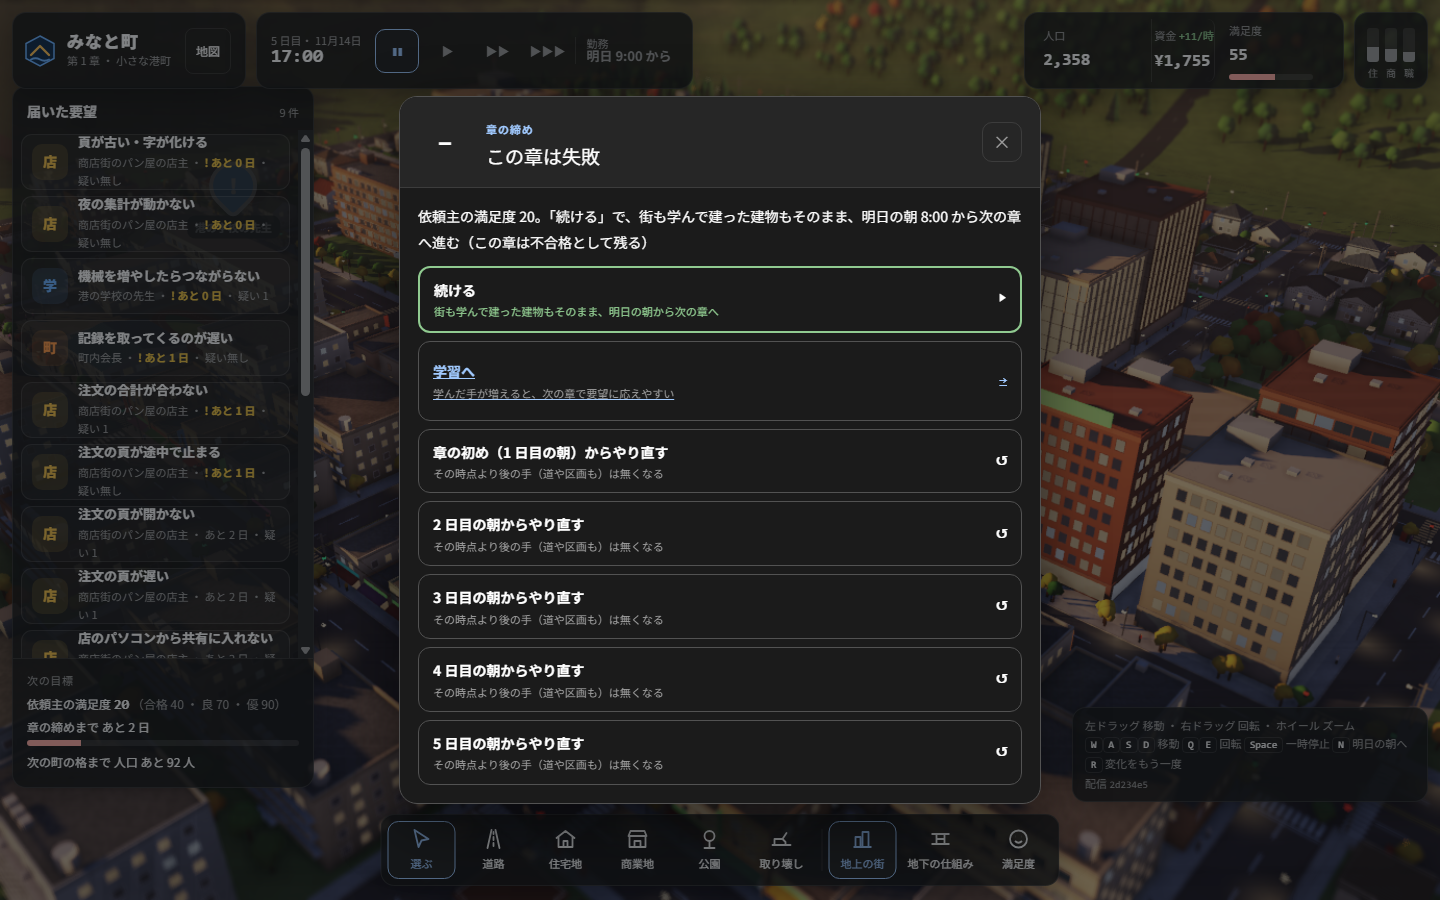
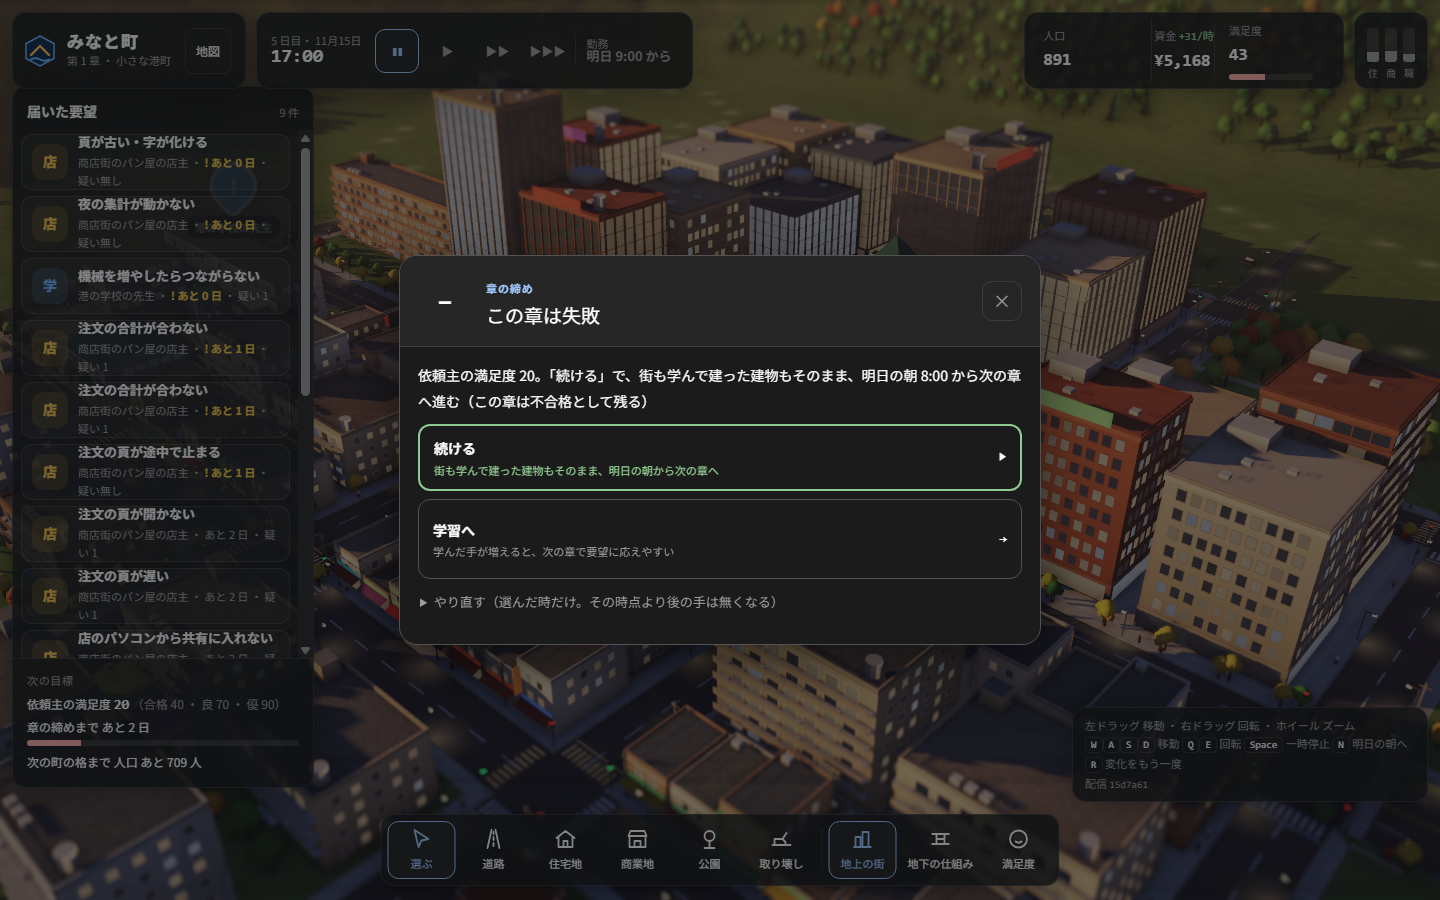
devlearn 8-R 済：記録・撮った画面（公開 URL の 15d7a61）・利用者の指摘 11-26 を済に。失敗の板の台本は地図へ移るのを待つ

diff --git a/devlearn/scripts/look-town-escape.ts b/devlearn/scripts/look-town-escape.ts
@@ -102,8 +102,12 @@ async function main() {
 		// 学習へ：地図へ行ける
 		await openWith(tab, FAILED);
 		await clickText(tab, '.modal .opt', '学習へ');
-		await sleep(1500);
-		const path = await tab.eval<string>('location.pathname');
+		// 地図はレッスンの一覧を読むので、移るまで数秒かかることがある
+		let path = '';
+		for (let i = 0; i < 20 && path !== '/map'; i++) {
+			await sleep(500);
+			path = await tab.eval<string>('location.pathname');
+		}
 		check('学習へ：地図へ移った', path === '/map', path);
 		// 古い保存：「新しい街で始める」が出て、押すと遊び方の板（はじめての街）になる
 		await openWith(tab, OLD);

diff --git a/devlearn/docs/progress/phase-8.md b/devlearn/docs/progress/phase-8.md
@@ -1,23 +1,43 @@
 # 段 8　ゲームの実装（港町）
 
-状態: 8-2 まで**済**（2026-11-12）。**8-R（D-27）を進めている**（2026-11-26 に始めた）
+状態: 8-2 まで**済**（2026-11-12）。**8-R（D-27）も済**（2026-11-27）。次は `plan.md` 10-P の続き（`phase-10.md`）
 
-## 次の実行が読む所（8-R）
+## 次の実行が読む所（8-R は済）
 
-- `decisions.md` D-27（全て）
-- `plan.md` 8-R の節（手順 0〜6 と完成条件）
-- `city-standard.md` G-10b・G-12〜G-15・S-6
-- `game-design.md` 第 15 章 15.2・15.5・15.7・15.8（空き地から作り直す数）
-- `requirements.md` T-8〜T-12・A-19b・B-2〜B-4
-- この記録の「8-R」の節（手順 0 は済。手順 1 から）
-- コード：`src/lib/game/town.ts`（状態と手）・`build.ts`（区画・人口）・`desk.ts`（要望）・`src/lib/city/game.ts`（描画と板）
+- 段 8 は済。次の実行は `docs/progress/phase-10.md` の「次の実行が読む所」から 10-P の続きを進める
+- 街を直す時だけ：`game-design.md` 15.12（空き地からの数）・`city-standard.md` G-12〜G-15・S-6、この記録の「8-R」の節
+- 公開 URL の台本：`scripts/look-town-grow.ts`（空き地から育つ）・`scripts/look-town-escape.ts`（板から抜ける）
 
 ## 8-R　街を空き地から始め、学ぶと育てる（D-27）
 
 | 手順 | 状態 |
 |---|---|
 | 0 閉じ込めを直す | 済（2026-11-26、`2d234e5`） |
-| 1〜6 | まだ |
+| 1 数を作り直す | 済（2026-11-27、`f80a86c`。`game-design.md` 15.12） |
+| 2 状態（空き地・learn の手・当て直し） | 済（`f80a86c`） |
+| 3 学ぶと建つ | 済（`f80a86c`・`f1270b8`・`15d7a61`） |
+| 4 要望は住民から | 済（`f80a86c`） |
+| 5 見積もりを流し直す | 済（`f80a86c`） |
+| 6 公開 URL の台本 | 済（配信 `15d7a61` で 19 項目・24 項目 全て OK） |
+
+### 手順 1〜6：空き地から始め、学ぶと育つ（2026-11-27）
+
+- 作った物
+  - `town.ts`：手 `learn`（そのレッスンの初めての合格だけ効く）、`passed`・`started`。完成図（試作の街）の建物を広場の掲示板から近い順に、最初の合格で 3 棟（住む建物を必ず含む）・以後 2 棟建てる。分野の仕組みの建物も建つ。章は最初の住民が来た次の朝 8:00 から。要望の数は住民で 0〜3 件、中身は建っている依頼主で、合格した分野で直せる物を先に（`requestPick`）。町の格は 空き地 → 集落 → 村 → 小さな港町 → 港町 → にぎわう港町 → 港の市。保存の形 2。`pendingLessons`・`standingRise`
+  - `build.ts`：`standing`。人口・働く場所は建ち終えた物だけ。維持費は建った量に比例（空き地で 0）。完成図の区画は合格 1 本ごとに近い順に 1 つ開く。道は建った物から 60 m 以内の交差点からだけ
+  - `areas.ts`・`gen.ts`：地形の後の動かない物（道・歩道・白線・木・街灯・灯りの輪）に 20 m の升の番号。建った物から 60 m の升だけを 0.9 秒で立ち上げる。東の入口の道だけ始まりから見え、北と西の道は町の端まで育つと見える。車・人・信号・旗も見せた升の上だけ
+  - 街の画面：学習の記録の修了を、開いた時・窓に戻った時に `learn` の手で当てる。足場から 1 時間で建つ。知らせ「『題』を学んで N 棟が建ち始めた」と「見に行く」。建物の札「『題』を学んで建った」。仕組みの建物は足場と砂ぼこりから。建ち終えた家へ荷物を運ぶ人が 3 人歩いて来て「+N 人 引っ越して来た」。章の前は目標に「最初のレッスンに合格する」と地図への道を出し、日報を出さない。はじめにの 3 行（学ぶと建つ・住む人から要望が届く・学んだ手で応える）と「最初のレッスンへ」。始まりの視点は海・岸・東の入口が入るよう引く。1 時間ごとに保存
+  - 直した不具合：学んで仕組みの建物がある保存を開くと、`FIELD_ORDER` を宣言より前に読んで街が止まった（`1863a34`）
+- 確かめ方
+  - 単体：`empty.test.ts`（空き地・30 日で失敗しない・建つ順・最初の 3 棟・2 棟ずつ・章の始まりと要望・当て直し・区画・道・記録の反映・高さ）、`areas.test.ts`、`estimate.test.ts`「空き地から」3 件、`nolearn.test.ts`（最初の 1 本の後、学んだ手を使わずに自由の章まで。種 5 つ）。段 4 の仕組みのテストは `{ full: true }` で前と同じ値。全体 2,879 件が通る
+  - 公開 URL（配信 `15d7a61`）：`look-town-grow.ts` 19 項目 全て OK（初めて開く → はじめに → 空き地で人口 0・要望 0 → 時計が進む → 朝を 2 回送っても失敗も要望も無い → 合格で知らせと learn の記録 → 札「学んで建った」 → 次の朝に人口 6・要望 1 件 → 要望の板 → 様子を聞く → Esc → 開き直しても住民がいる）。`look-town-escape.ts` 24 項目 全て OK（失敗の保存を形 2 にした。地図へ移るのを最大 10 秒待つ）
+  - 合格は、学習の画面が書くのと同じ修了の記録（`devlearn.progress`）を置いて窓に戻すことで起こした（合格そのものの画面は段 10 の台本で確かめている）
+  - 撮った画面（公開 URL）：`shots/phase-8r-intro.png`・`phase-8r-empty.png`（空き地。海・岸・丘・東の入口の道だけ）・`phase-8r-scaffold.png`・`phase-8r-first-home.png`・`phase-8r-request.png`・`phase-8r-failed-panel.png`
+- 完成条件
+  1. A-19b：`look-town-grow.ts` を公開 URL で 全て OK
+  2. G-12〜G-15・S-6：はじめにの 3 行（G-12）、空き地（G-13、`phase-8r-empty.png`）、足場・砂ぼこり・引っ越し・札（G-14、`phase-8r-scaffold.png`・`first-home.png` と台本の札の項目）、要望は住民から（G-15、単体と台本）、閉じ込めない（S-6、`look-town-escape.ts`）
+  3. 見積もり：学ばない（空き地のまま・失敗しない）・2 日に 1 本・毎日 1 本（4 章とも合格）と、学んだ手を使わない道（`nolearn.test.ts`）が通る
+- 満たせなかった物：無し。気づいた事：空き地からの遊びでは章の報酬で資金が早く増える（毎日 1 本で 29 日目に約 ¥18,000）。仕様書に資金の目安が無いので今は変えない
 
 ### 手順 0：閉じ込めを直す
 

diff --git a/devlearn/docs/decisions.md b/devlearn/docs/decisions.md
@@ -351,7 +351,8 @@
 - [x] 2026-11-25　**【最優先・次の実行で直す】**街の章の締め（「この章は失敗」）の板から抜けられず、どこを押しても同じ板に戻り、学習に進めない。閉じる・地図へ・効くレッスンへの道を足す（`city-standard.md` S-6）。全ての板で、開いて → 閉じる・学習へ、を台本で確かめる。
   2026-11-26 にも利用者が同じ板に閉じ込められた（D-27）。「閉じる」「学習へ」「続ける」・Esc・板の外で閉じる。失敗しても閉じれば次の章へ進め、学んだ記録と学んで建った建物は消えない。古い保存は「新しい街で始める」に。**単体テストと、公開 URL で失敗の状態を作って抜け出せる台本**で確かめる
   → 直した（`2d234e5`）：手 `continue` で失敗の章から次の章へ（建物・学んだ記録は残る）。結果の板に「続ける」「学習へ」・×、どの板も Esc・板の外で閉じる。古い保存は「新しい街で始める」。`town.test.ts` 4 件と、公開 URL の `look-town-escape.ts` 24 項目で確かめた
-- [ ] 2026-11-26　**何もしていないのに街が出来ている。学ぶにつれて街を作れ、住民から要望が来るのが元々の必須要件**（D-27）。始まりは完全な空き地。学ぶと仕組みの建物と家が建ち、住民が来て、住民から要望が届く。時計は進む。`plan.md` 8-R を 10-P の続きより先に
+- [x] 2026-11-26　**何もしていないのに街が出来ている。学ぶにつれて街を作れ、住民から要望が来るのが元々の必須要件**（D-27）。始まりは完全な空き地。学ぶと仕組みの建物と家が建ち、住民が来て、住民から要望が届く。時計は進む。`plan.md` 8-R を 10-P の続きより先に
+  → 直した（`f80a86c`〜`15d7a61`、8-R）：始まりは地形と東の入口の道だけの空き地。合格で完成図の建物が足場から建ち、区画が開き、住民が引っ越して来て、次の朝から住民の数に応じて要望が届く。住民 0 の間は期限も失敗も無い。公開 URL の `look-town-grow.ts` 19 項目で確かめた
 - [ ] 2026-11-25　学習画面が全て四角で同じデザイン。題ごとに見せ方の型を変える（`learn-standard.md` 第 14 章 LS-V1・V2）。見本 2 本と、10-D の全レッスンで
 - [ ] 2026-11-25　動きが無い・図が小さい・最初から拡大が要る・図の物が重なる・画面が分かれていて分かりにくい・次へ進めない／進み方が難解。
   `learn-standard.md` LS-AN1・S1・Z1・O1・U1・N1〜N3 を**公開 URL で**満たす。第 1 版のまま残っているレッスンも、10-D で書き直すまで、開いた瞬間に読め・次へ進め・重ならないようにする
